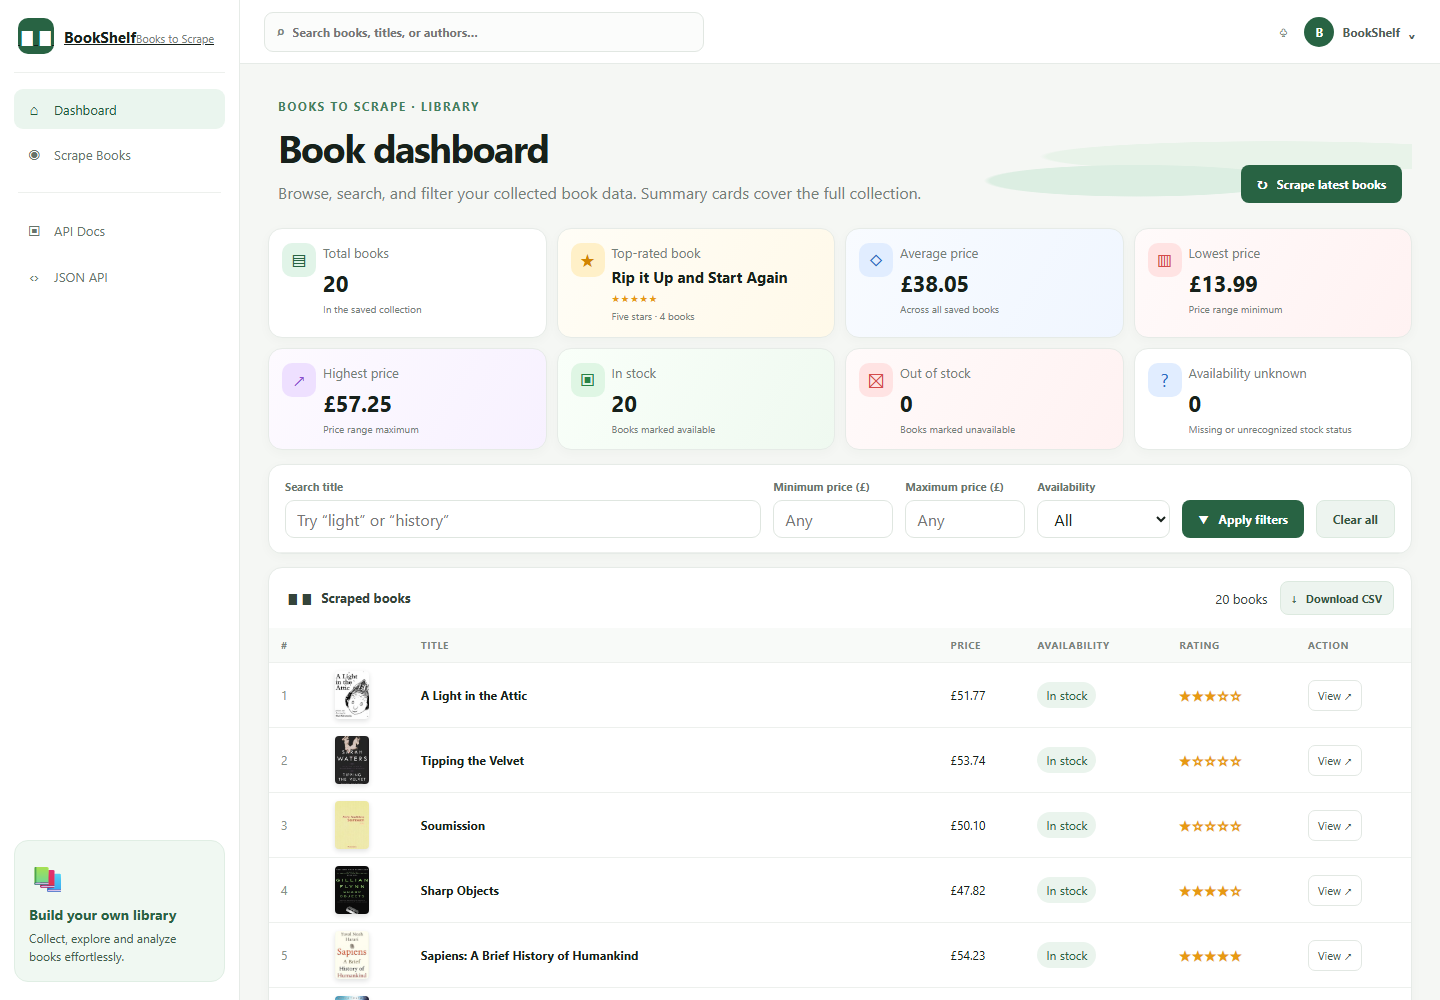
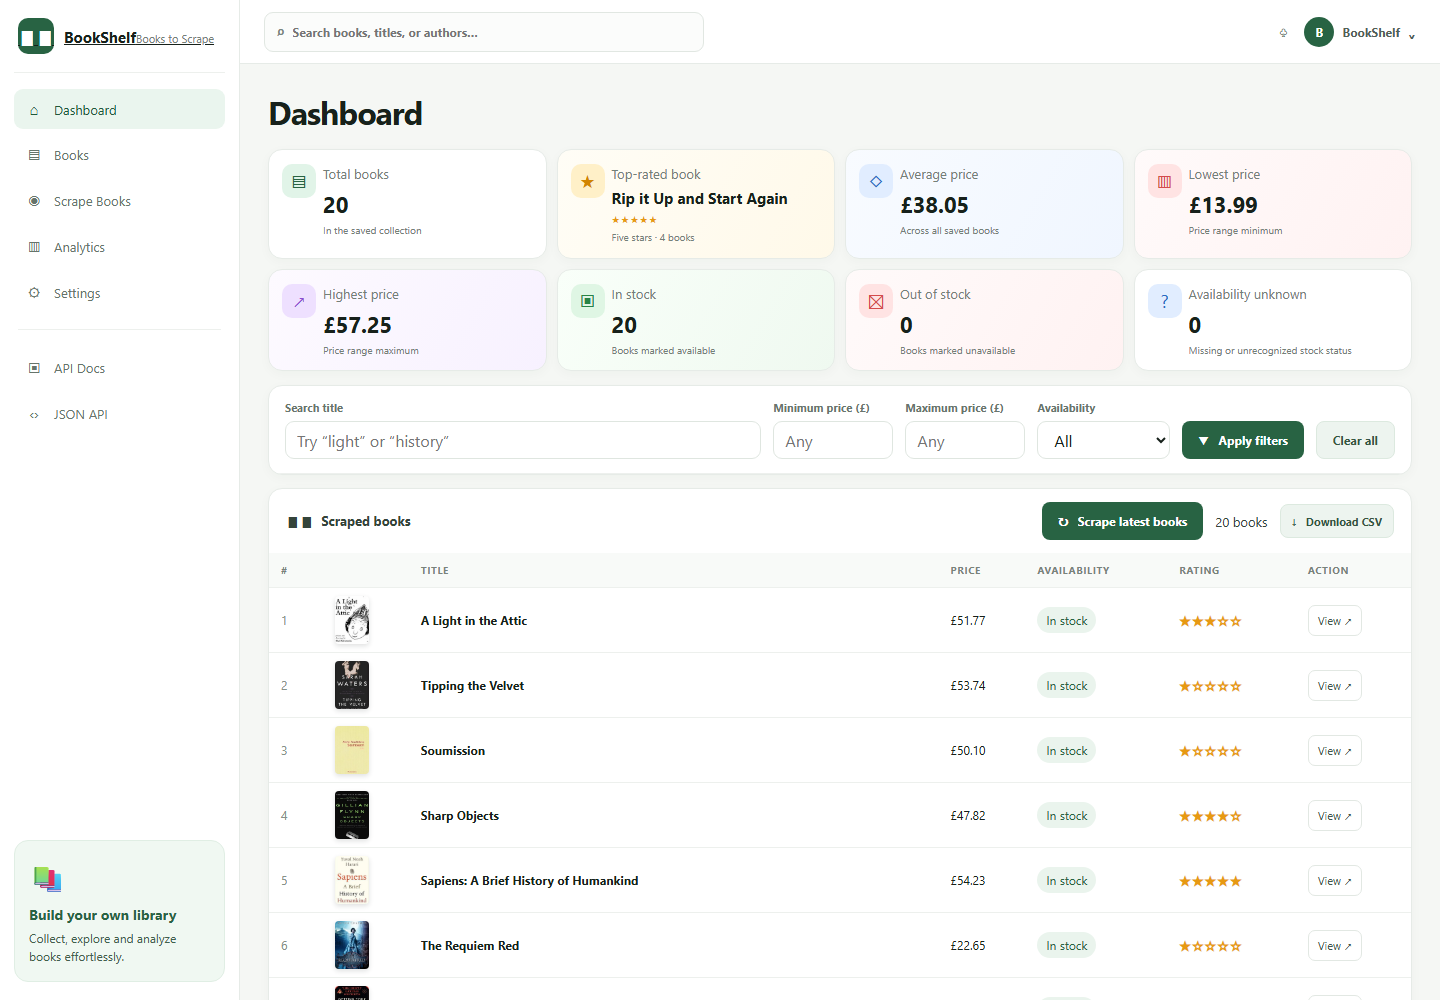
Refine dashboard navigation and title

diff --git a/app/main.py b/app/main.py
@@ -66,7 +66,6 @@ def home() -> str:
             border-radius: 10px; color: #fff; background: #286343; font-size: 19px;
           }
           .brand-name { font-size: 15px; font-weight: 750; line-height: 1.15; }
-          .brand-caption { margin-top: 3px; color: #748078; font-size: 11px; }
           .side-nav { display: grid; gap: 5px; padding-top: 16px; }
           .side-nav a {
             display: flex; align-items: center; gap: 11px; padding: 10px 11px;
@@ -110,19 +109,10 @@ def home() -> str:
             border-radius: 50%; color: #fff; background: #286343; font-weight: 750;
           }
           main { width: 100%; max-width: 1500px; margin: 0 auto; padding: 26px 28px 34px; }
-          .heading {
-            display: flex; justify-content: space-between; align-items: end;
-            gap: 20px; min-height: 105px; margin-bottom: 17px;
-            padding: 8px 10px; background:
-              radial-gradient(ellipse at 76% 75%, #dceee2 0 12%, transparent 12.5%),
-              radial-gradient(ellipse at 88% 55%, #e8f3e9 0 16%, transparent 16.5%);
+          .dashboard-title {
+            margin: 0 0 16px; font-size: clamp(24px, 3vw, 32px);
+            letter-spacing: -.03em;
           }
-          .eyebrow {
-            margin: 0 0 8px; color: #43805b; font-size: 12px;
-            font-weight: 750; letter-spacing: .12em; text-transform: uppercase;
-          }
-          h1 { margin: 0; font-size: clamp(28px, 4vw, 38px); letter-spacing: -.04em; }
-          .subtitle { margin: 9px 0 0; color: #748078; }
           button, input {
             min-height: 42px; border-radius: 9px; font: inherit;
           }
@@ -274,8 +264,6 @@ def home() -> str:
             .global-search { width: min(330px, 60%); }
             .top-link { display: none; }
             main { padding: 18px 14px 25px; }
-            .heading { min-height: auto; align-items: flex-start; flex-direction: column; padding: 4px 2px 10px; }
-            .heading .subtitle { max-width: 500px; line-height: 1.5; }
             .cards { grid-template-columns: repeat(2, minmax(0, 1fr)); gap: 8px; }
             .card { min-height: 90px; padding: 13px 9px 10px 46px; }
             .card-icon { top: 12px; left: 8px; width: 30px; height: 30px; }
@@ -301,7 +289,7 @@ def home() -> str:
           <aside class="sidebar">
             <a class="sidebar-brand" href="/" aria-label="BookShelf home">
               <span class="brand-mark" aria-hidden="true">▮▮</span>
-              <span><span class="brand-name">BookShelf</span><span class="brand-caption">Books to Scrape</span></span>
+              <span class="brand-name">BookShelf</span>
             </a>
             <nav class="side-nav" aria-label="Main navigation">
               <a class="active" href="#dashboard"><span class="side-icon" aria-hidden="true">⌂</span>Dashboard</a>
@@ -330,14 +318,7 @@ def home() -> str:
             </div>
           </header>
           <main id="dashboard">
-            <section class="heading">
-              <div>
-                <p class="eyebrow">Books to Scrape · Library</p>
-                <h1>Book dashboard</h1>
-                <p class="subtitle">Browse, search, and filter your collected book data. Summary cards cover the full collection.</p>
-              </div>
-              <button id="scrape-button" type="button">↻ &nbsp; Scrape latest books</button>
-            </section>
+            <h1 class="dashboard-title">Dashboard</h1>
             <section class="cards" id="analytics" aria-label="Collection statistics" aria-live="polite">
               <article class="card">
                 <span class="card-icon" aria-hidden="true">▤</span>
@@ -420,6 +401,7 @@ def home() -> str:
               <div class="table-head" aria-live="polite">
                 <strong><span aria-hidden="true">▮▮ &nbsp;</span>Scraped books</strong>
                 <div class="table-actions">
+                  <button class="scrape-button" id="scrape-button" type="button">↻ &nbsp; Scrape latest books</button>
                   <span id="result-label">Loading books…</span>
                   <a class="download-button" id="download-csv" href="/products/export.csv" download>
                     ↓ &nbsp; Download CSV

diff --git a/tests/test_api.py b/tests/test_api.py
@@ -56,6 +56,14 @@ def test_home_and_health(client):
     home = client.get("/")
     assert home.status_code == 200
     assert 'href="#books"' in home.text
+    assert ">Books</a>" not in home.text
+    assert ">Analytics</a>" not in home.text
+    assert ">Settings</a>" not in home.text
+    assert "brand-caption" not in home.text
+    assert 'href="/docs"' in home.text
+    assert 'href="/books"' in home.text
+    assert '<h1 class="dashboard-title">Dashboard</h1>' in home.text
+    assert '<button class="scrape-button" id="scrape-button"' in home.text
     response = client.get("/health")
     assert response.status_code == 200
     assert response.json() == {"status": "ok", "database": "connected"}

diff --git a/README.md b/README.md
@@ -170,10 +170,12 @@ If using a different GitHub repository, create it first and set its URL as the `
 |---|---|
 | Runtime | Python 3.11 |
 | Build command | `pip install -r requirements.txt` |
-| Start command | `uvicorn app.main:app --host 0.0.0.0 --port $PORT` |
+| Start command | `python -m uvicorn app.main:app --host 0.0.0.0 --port $PORT` |
 | Instance type | Free |
 
 3. Deploy, then open `https://<your-service-name>.onrender.com/` for the dashboard or `/docs` for the API.
+
+If the shell reports `gunicorn: command not found`, replace any `gunicorn` Start Command in the Render service settings with `python -m uvicorn app.main:app --host 0.0.0.0 --port $PORT`. Uvicorn is installed by `requirements.txt`; this project does not use Gunicorn.
 
 **Storage note:** `DATABASE_URL` can select a SQLite database location; by default the app uses `sqlite:///./books.db`. For example, with a persistent disk mounted at `/var/data`, set `DATABASE_URL=sqlite:////var/data/books.db`. Render's free filesystem is ephemeral, so SQLite data can be lost on restart or redeploy. Configure supported persistent storage and point `DATABASE_URL` at that disk if persistence is required. Deployment has not been performed or verified as part of this project update.
 

diff --git a/docs/Book_Scraper_Project_Report.md b/docs/Book_Scraper_Project_Report.md
@@ -419,7 +419,7 @@ The project currently uses the repository name `scapper`; create a separate repo
 The checked-in `render.yaml` defines a Python web service using:
 
 - Build command: `pip install -r requirements.txt`
-- Start command: `uvicorn app.main:app --host 0.0.0.0 --port $PORT`
+- Start command: `python -m uvicorn app.main:app --host 0.0.0.0 --port $PORT`
 - Runtime: Python 3.11.11
 - Plan: Free
 
